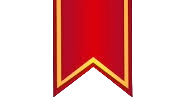
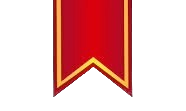
Thu, Mar 14, 2024, 1:36 PM -07:00

diff --git a/css/index.css b/css/index.css
@@ -94,3 +94,13 @@ a{
     position: absolute;
     right:0;
 }
+
+.ribbon{
+    position: absolute;
+    display:flex;
+    transform: rotate(180deg);
+    justify-content:center;
+    align-items:center;
+    bottom:0;
+    
+}
